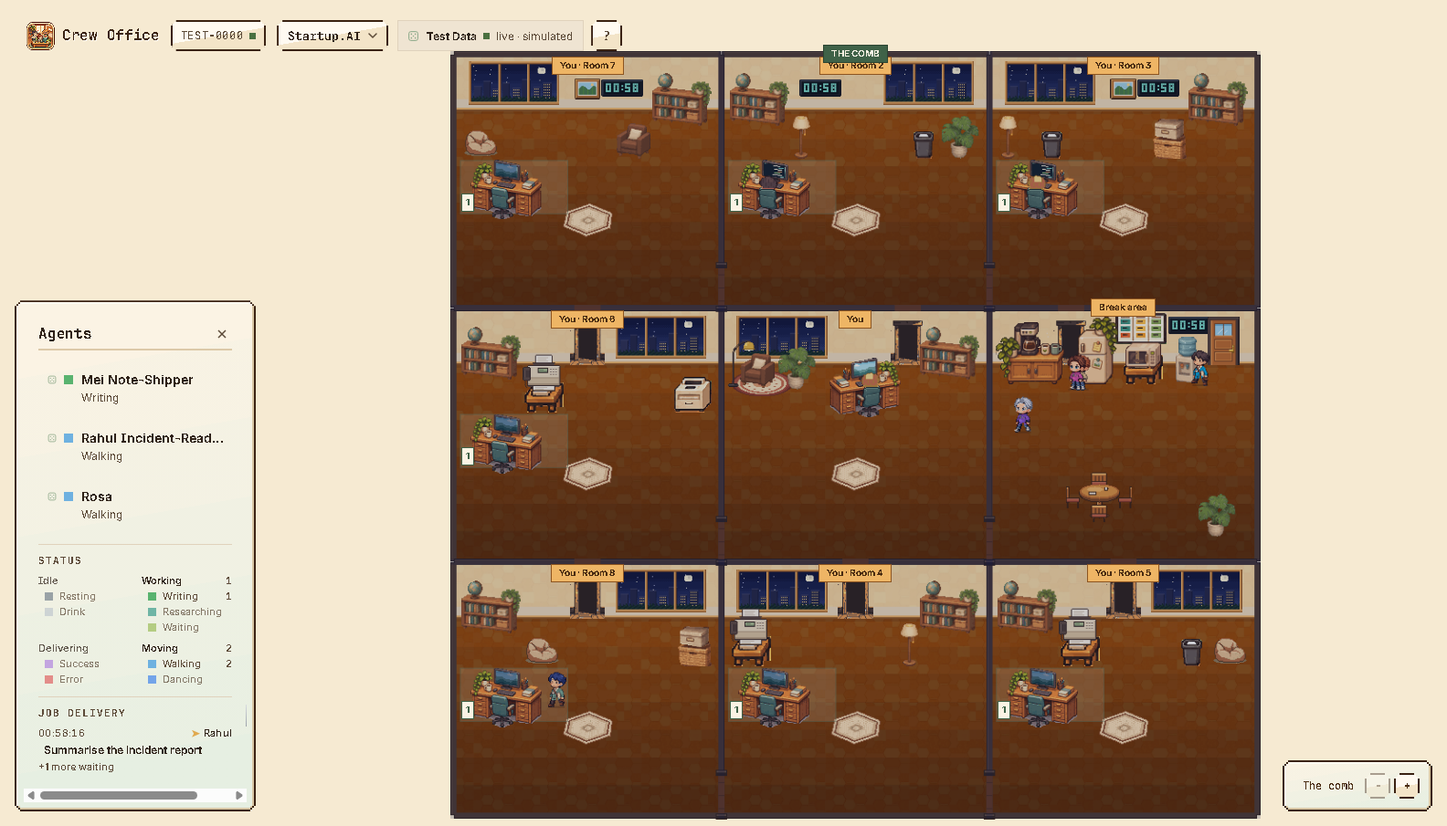
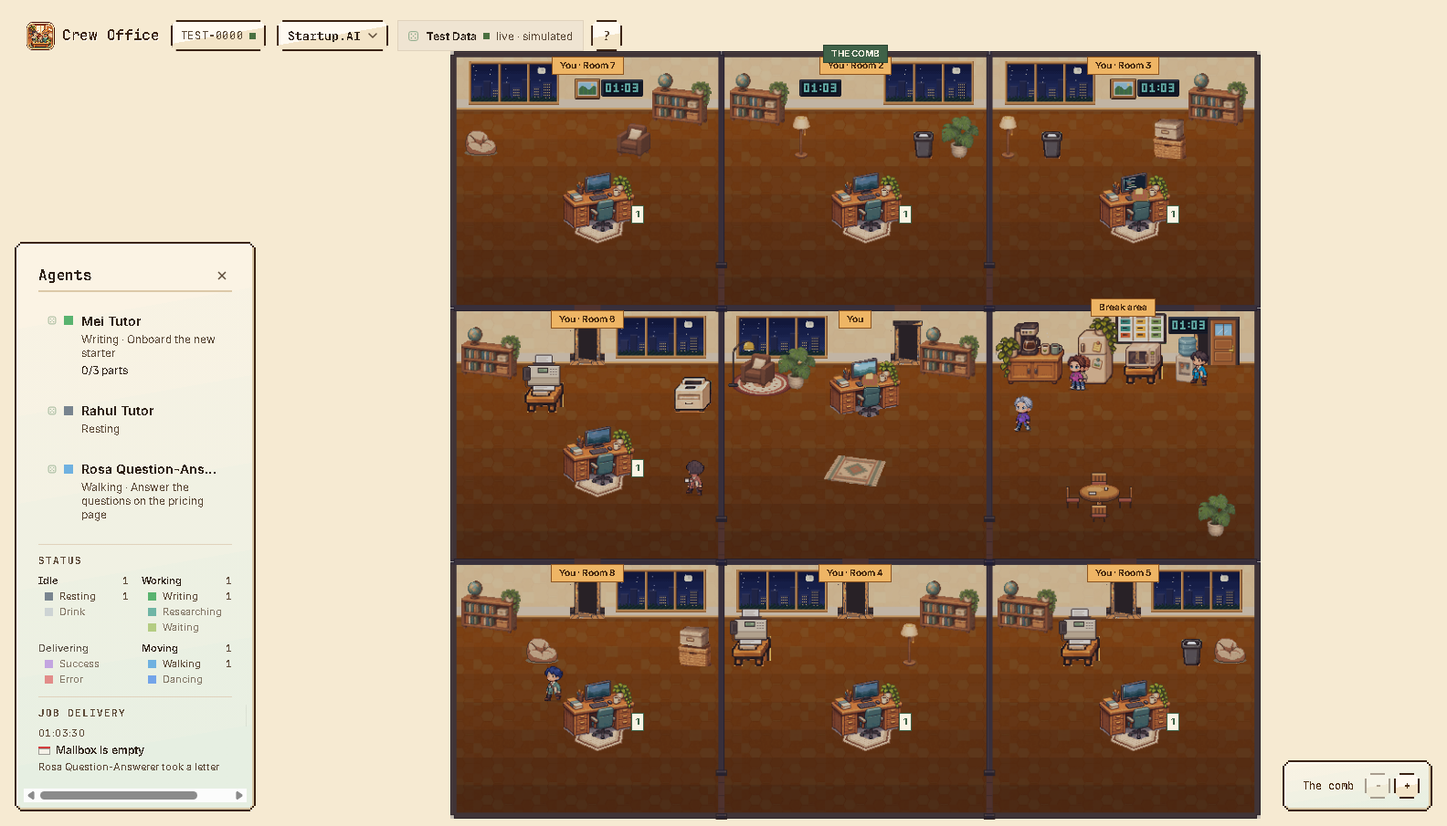
Comb: solo desk in the middle on the rug, no patch; walks checked
An agent alone in a comb room works at a centred desk on the hex rug,
without the pale workstation square. Comb rooms keep desks only for who
is in them, and a back doorway counts only if a walk from it reaches the
foot of the room (the player's room had one boxed in by spare desks).
New test walks every seat in, on a stroll, and to every break spot with
the real sprite sizes, for 1, 3 and 7 agents and a full room.

diff --git a/docs/site/developer/architecture.html b/docs/site/developer/architecture.html
@@ -169,7 +169,7 @@
 <p><strong>The office is drawn by <code>src/office2d/view.js</code></strong>, in 2D from one fixed angle, using the art in <code>assets/pixel-art/office/established/</code>, with no WebGL. A camera in that file zooms between one room and a whole floor, and <code>src/office2d/ambient.js</code> sends idle agents to a shared break area, which is only a picture and changes nothing about them. <code>src/office2d/allocation.js</code> gives each bot a workstation: four bots a room, three players a floor, ten bots per player per floor, and one standby desk at most. Agents keep their logic, including their walking in the 3D scene objects under <code>src/scene/</code>, but none of that is rendered, so workers are shown at their desks. The editor and first-person ride are off. The sections below describe the older picture where they mention a camera.</p>
 </blockquote>
 <blockquote>
-<p><strong>The comb layout</strong> is the same view with <code>?layout=comb</code> in the address (<code>combLayoutWanted</code> in <code>view.js</code>, or <code>createOffice2D(canvas, input, { comb: true })</code>). <code>src/office2d/comb.js</code> replaces <code>allocation.js</code> for it: <code>createCombAllocator</code> gives the player a room (number 1, with their desk) and every top-level agent a room of their own, in the order they arrived, with a bot whose <code>parentId</code> is present seated at the next desk in that room and a fifth person spilling into an annexe in the next cell. <code>combCells</code> packs rooms on a plain grid: the player's room and the break room sit side by side, and each next room takes the free cell sharing a wall with the most cells taken (ties to the nearest the middle), so the comb grows 2×2, 2×3, 3×3 and stays a solid block like an office floor. <code>placeComb</code> returns a plan with the same shape as <code>placeFloor</code>'s plus <code>comb</code>, <code>links</code> and <code>bounds</code>, and <code>combDoorsOf</code> in <code>floor-plan.js</code> puts a floor-level door in every shared side wall and a doorway in every shared back wall, wherever it is clear on both sides; walking there is the shortest way rather than the lanes. When somebody leaves, everybody after them moves one cell inwards, and <code>easeRooms</code> glides the drawn rooms to their new places. All of it is tested in <code>test/office2d-comb.test.js</code>. Its art is in <code>assets/pixel-art/office/comb/</code>, generated with PixelLab; see <a href="visual-assets.html">visual assets</a>.</p>
+<p><strong>The comb layout</strong> is the same view with <code>?layout=comb</code> in the address (<code>combLayoutWanted</code> in <code>view.js</code>, or <code>createOffice2D(canvas, input, { comb: true })</code>). <code>src/office2d/comb.js</code> replaces <code>allocation.js</code> for it: <code>createCombAllocator</code> gives the player a room (number 1, with their desk) and every top-level agent a room of their own, in the order they arrived, with a bot whose <code>parentId</code> is present seated at the next desk in that room and a fifth person spilling into an annexe in the next cell. <code>combCells</code> packs rooms on a plain grid: the player's room and the break room sit side by side, and each next room takes the free cell sharing a wall with the most cells taken (ties to the nearest the middle), so the comb grows 2×2, 2×3, 3×3 and stays a solid block like an office floor. <code>placeComb</code> returns a plan with the same shape as <code>placeFloor</code>'s plus <code>comb</code>, <code>links</code> and <code>bounds</code>, and <code>combDoorsOf</code> in <code>floor-plan.js</code> puts a floor-level door in every shared side wall and a doorway in every shared back wall, wherever it is clear on both sides; a doorway only counts where a walk from it reaches the foot of the room. Walking there is the shortest way rather than the lanes. A comb room keeps desks only for who is in it (<code>seatsIn</code>), and one with only its agent (<code>isSolo</code>) puts that desk in the middle on the hex rug, with no pale workstation patch. When somebody leaves, everybody after them moves one cell inwards, and <code>easeRooms</code> glides the drawn rooms to their new places. All of it is tested in <code>test/office2d-comb.test.js</code>. Its art is in <code>assets/pixel-art/office/comb/</code>, generated with PixelLab; see <a href="visual-assets.html">visual assets</a>.</p>
 </blockquote>
 <p>How a keystroke in a terminal becomes somebody walking across a room, and where the seams are.</p>
 <h2 id="the-pipeline" tabindex="-1">The pipeline</h2>

diff --git a/src/office2d/floor-plan.js b/src/office2d/floor-plan.js
@@ -72,6 +72,14 @@ const SMALL_PROPS = [null, 'bin', 'bin'];
 const COMB_PROPS = [{ sprite: 'beanbag' }, { sprite: 'whiteboard' }];
 const PICTURES = [null, 'picture-hills', 'picture-chart', 'picture-night'];
 const SEATS_IN_A_ROOM = 4;
+// Where the one desk of a room of the comb with only its agent in it stands: in the middle.
+export const SOLO_DESK_X = Math.round((INNER_W - DESK_W) / 2) + 13;
+export const SOLO_ROW_Y = 140;
+/** A room of the comb with nobody in it but its agent, whose desk is in the middle. */
+export const isSolo = (room) => Boolean(room.comb) && room.number !== 1 && room.rows.length <= 1;
+// The usual rooms keep a place for all four desks, taken or not. A room of the comb is laid out
+// for whoever is in it, as it is redrawn when somebody joins.
+const seatsIn = (room) => (room.comb ? (isSolo(room) ? 1 : room.rows.length) : SEATS_IN_A_ROOM);
 const CHAIR_X = 48; // where the middle of the chair is in the desk's sprite, which is drawn mirrored on the left
 const CHAIR_TOP = 13;
 const WANDER_LEGS = 6; // straight walks in a stroll, each ending at whatever is in the way
@@ -118,6 +126,20 @@ export function placeFloor(floor) {
 /** Where a workstation is in its room. Odd seats are on the right, and desks face the aisle. */
 export function stationAt(room, index) {
   const left = room.x + BORDER;
+  if (isSolo(room)) {
+    // An agent alone in a room of the comb works in the middle of it, on the rug.
+    const deskX = left + SOLO_DESK_X;
+    return {
+      right: true,
+      y: room.y + BORDER + SOLO_ROW_Y,
+      left,
+      rugX: deskX - 30,
+      badgeX: deskX + 85,
+      deskX,
+      workerX: deskX - 26,
+      nameX: deskX + 41,
+    };
+  }
   const right = index % 2 === 1;
   const y = room.y + BORDER + ROW_TOP + (index >> 1) * ROW_H;
   return {
@@ -203,7 +225,7 @@ function roomSolids(room, sizes, ownSeat) {
     solids.push(rect(left + PLAYER.x + 4, top + PLAYER.y + WORKER_H - 14, WORKER_W - 8, 14));
   }
   // Every seat counts, taken or not, so a colleague arriving mid-walk cannot end up in somebody's way.
-  for (let index = 0; index < SEATS_IN_A_ROOM; index++) {
+  for (let index = 0; index < seatsIn(room); index++) {
     const at = stationAt(room, index);
     solids.push(rect(at.deskX, at.y - 8, DESK_W, DESK_H));
     if (index !== ownSeat) solids.push(rect(at.workerX + 4, at.y + 6 + WORKER_H - 14, WORKER_W - 8, 14));
@@ -273,7 +295,10 @@ export function combDoorsOf(plan, sizes) {
   const free = (point, room) => {
     const top = room.y + BORDER;
     const floor = rect(room.x + BORDER + 9, top + WALL_H + 2, INNER_W - 18, INNER_H - WALL_H - 5);
-    return isClear(point, { walkable: [floor], solids: solidsOf(room) });
+    const map = { walkable: [floor], solids: solidsOf(room) };
+    // Clear is not enough: from the doorway there has to be a way to the walk along the foot of the room.
+    const foot = { x: room.x + BORDER + AISLE_X, y: top + FOOT_Y };
+    return isClear(point, map) && Boolean(findPath(point, foot, map));
   };
   const side = [];
   const back = [];
@@ -410,8 +435,9 @@ export function strollFrom(seat, sizes, random) {
   if (!own) return null;
   const map = { walkable: [own], solids: whole.solids };
   const start = seatFeet(seat.room, seat.index);
+  // Out to the aisle first, or straight off from the desk if the desk is where the aisle would be.
   const aisle = { x: left + AISLE_X, y: start.y };
-  const out = findPath(start, aisle, map);
+  const out = isClear(aisle, map) ? findPath(start, aisle, map) : [start];
   if (!out) return null;
   const way = [...out];
   let heading = Math.floor(random() * HEADINGS.length);

diff --git a/src/office2d/view.js b/src/office2d/view.js
@@ -13,8 +13,8 @@ import { createAllocator } from './allocation.js';
 import { createCombAllocator, easeRooms, placeComb } from './comb.js';
 import { createAmbient } from './ambient.js';
 import {
-  AISLE_X, BORDER, BREAK_DOOR_X, COZY_RUG, DESK_H, BREAK_FURNITURE, BREAK_SPOTS, BREAK_W, FOOT_Y, INNER_H, PLAYER, ROOM_H, ROOM_W, ROW_H, ROW_TOP,
-  STEP_X, WALL_H, WORKER_H, WORKER_W, combDoorsOf, decorOf, hashOf, placeFloor, routeTo, seatFeet, arrivalRoute, sittingAt, stationAt, strollFrom,
+  AISLE_X, BORDER, BREAK_DOOR_X, COZY_RUG, DESK_H, DESK_W, BREAK_FURNITURE, BREAK_SPOTS, BREAK_W, FOOT_Y, INNER_H, PLAYER, ROOM_H, ROOM_W, ROW_H, ROW_TOP,
+  STEP_X, WALL_H, WORKER_H, WORKER_W, SOLO_DESK_X, SOLO_ROW_Y, combDoorsOf, decorOf, isSolo, hashOf, placeFloor, routeTo, seatFeet, arrivalRoute, sittingAt, stationAt, strollFrom,
 } from './floor-plan.js';
 import { restingPose, workingPose } from './desk-poses.js';
 import { clockText, hostMinutes, phaseOf } from './sky.js';
@@ -538,7 +538,11 @@ export function createOffice2D(canvas, input, { comb = combLayoutWanted() } = {}
     if (clear(left + recipe.windowX, 104)) drawWindow(left + recipe.windowX, top + 5);
     if (clear(left + recipe.clockX, 48)) drawClock(left + recipe.clockX, top + 25); // below the plaque with the room's name
     if (recipe.picture && room.down === 0 && room.number !== 1 && clear(left + AISLE_X - 15, 30)) put(recipe.picture, left + AISLE_X - 15, top + 24);
-    if (recipe.rug) put(room.comb && sprites['hex-rug'] ? 'hex-rug' : 'rug', left + AISLE_X - 36, top + ROW_TOP + 40);
+    if (isSolo(room) && sprites['hex-rug']) {
+      // The comb's rug lies under the desk in the middle of the room.
+      const rug = sprites['hex-rug'];
+      put('hex-rug', left + SOLO_DESK_X + DESK_W / 2 - rug.width / 2, top + SOLO_ROW_Y + DESK_H - rug.height + 6);
+    } else if (recipe.rug) put('rug', left + AISLE_X - 36, top + ROW_TOP + 40);
     for (const x of doorways) putDoorway(x, top);
     // The cozy corner's rug, under its lamp, armchair and plant.
     if (recipe.cozy) put(COZY_RUG.sprite, left + COZY_RUG.x, top + COZY_RUG.y);
@@ -585,11 +589,14 @@ export function createOffice2D(canvas, input, { comb = combLayoutWanted() } = {}
   function drawStation(room, row, index, bots, layer) {
     const at = stationAt(room, index);
     const { y } = at;
-    context.fillStyle = 'rgba(247, 232, 196, 0.2)';
-    context.fillRect(at.rugX, y - 8, 124, ROW_H - 4);
-    context.strokeStyle = 'rgba(63, 98, 72, 0.4)';
-    context.lineWidth = 1;
-    context.strokeRect(at.rugX + 0.5, y - 7.5, 123, ROW_H - 5);
+    // The pale patch marks each workstation in a shared room; a room of the comb is one agent's own.
+    if (!room.comb) {
+      context.fillStyle = 'rgba(247, 232, 196, 0.2)';
+      context.fillRect(at.rugX, y - 8, 124, ROW_H - 4);
+      context.strokeStyle = 'rgba(63, 98, 72, 0.4)';
+      context.lineWidth = 1;
+      context.strokeRect(at.rugX + 0.5, y - 7.5, 123, ROW_H - 5);
+    }
 
     const desk = at.right ? put : putFlipped;
     const deskY = y - 8;

diff --git a/docs/site/user/watching.html b/docs/site/user/watching.html
@@ -145,7 +145,7 @@
 <p><strong>The office is now 2D, seen from one fixed angle.</strong> Scroll, use the <strong>+</strong> and <strong>−</strong> buttons or keys, or click a room to zoom between a room and the whole floor, and drag to look around. The camera doesn't turn. Idle agents sometimes stroll about their room or go to the break area, which is only for show and doesn't affect their work. On the way to the break area they keep to the aisle and the walkway along the foot of each room, and they walk around desks and furniture rather than through them. The windows and clock follow the time and weather where the office is hosted. In a hosted office, click a bookshelf to share files with the other players and their agents. You choose your character when you first enter, and click it to change it. First-person view, the scene panel, photos and furniture editing described here are not available in it.</p>
 </blockquote>
 <blockquote>
-<p><strong>A room for every agent.</strong> Add <code>?layout=comb</code> to the end of the office's address to lay it out as a comb instead: your own room in the middle, the break area beside it, and a room of its own for every agent who joins, the rooms packed together wall to wall in one block, like a real office floor. The comb grows a room when an agent arrives and closes up when one leaves, with the rooms gliding into their new places. A subagent, when one is shown, sits at a desk in the room of the agent who started it. Leave the address as it was for the usual layout of four desks to a room.</p>
+<p><strong>A room for every agent.</strong> Add <code>?layout=comb</code> to the end of the office's address to lay it out as a comb instead: your own room in the middle, the break area beside it, and a room of its own for every agent who joins, the rooms packed together wall to wall in one block, like a real office floor. The comb grows a room when an agent arrives and closes up when one leaves, with the rooms gliding into their new places. An agent alone in its room works at a desk in the middle of it, on a rug; a subagent, when one is shown, sits at a desk in the room of the agent who started it. Leave the address as it was for the usual layout of four desks to a room.</p>
 </blockquote>
 <img src="../images/comb/comb-7.png" width="1000" alt="The office laid out as a comb with seven agents: the player's room in the middle, the break area to its right, and seven rooms with one desk in use each packed around them in a three-by-three block, joined by doors.">
 <p><em>For anyone looking at the room. Two minutes, no code.</em></p>

diff --git a/test/office2d-comb.test.js b/test/office2d-comb.test.js
@@ -119,3 +119,34 @@ test('rooms glide to where they belong, and new rooms appear in place', () => {
   easeRooms(shown, [], 0.016);
   assert.equal(shown.size, 0);
 });
+
+test('with the real sprites, everyone can walk in, stroll, and reach every break spot', async () => {
+  const { readFileSync } = await import('node:fs');
+  const { routeTo, arrivalRoute, strollFrom, BREAK_SPOTS, stationAt, isSolo } = await import('../src/office2d/floor-plan.js');
+  const sizes = {
+    ...JSON.parse(readFileSync(new URL('../assets/pixel-art/office/established/sprites.json', import.meta.url))),
+    ...JSON.parse(readFileSync(new URL('../assets/pixel-art/office/comb/sprites.json', import.meta.url))),
+  };
+  let seed = 1;
+  const random = () => ((seed = (seed * 16807) % 2147483647) / 2147483647);
+  for (const n of [1, 3, 7]) {
+    const lead = Array.from({ length: n }, (_, i) => ({ id: `b${i}`, ownerId: 'a' }));
+    // The last agent has three subagents, so a full room of four is walked as well.
+    const subs = [1, 2, 3].map((i) => ({ id: `s${i}`, ownerId: 'a', parentId: `b${n - 1}` }));
+    const rooms = createCombAllocator().sync([...lead, ...subs], [{ id: 'a' }]).rooms.map((r) => ({ ...r, comb: true }));
+    const plan = placeComb(rooms);
+    for (const room of plan.rooms) {
+      room.rows.forEach((row, index) => {
+        const seat = { room, plan, index };
+        for (const spot of BREAK_SPOTS) assert.ok(routeTo(seat, spot, sizes), `${n}: ${row.botId} cannot get to the ${spot.action}`);
+        assert.ok(arrivalRoute(seat, sizes), `${n}: ${row.botId} cannot walk in`);
+        assert.ok([1, 2, 3, 4, 5].some(() => strollFrom(seat, sizes, random)), `${n}: ${row.botId} cannot stroll`);
+      });
+      if (isSolo(room)) {
+        const at = stationAt(room, 0);
+        const middle = room.x + 7 + 150;
+        assert.ok(Math.abs(at.deskX + 41 - middle) <= 14, `${room.key}: the desk is not in the middle`);
+      }
+    }
+  }
+});

diff --git a/docs/developer/architecture.md b/docs/developer/architecture.md
@@ -2,7 +2,7 @@
 
 > **The office is drawn by `src/office2d/view.js`**, in 2D from one fixed angle, using the art in `assets/pixel-art/office/established/`, with no WebGL. A camera in that file zooms between one room and a whole floor, and `src/office2d/ambient.js` sends idle agents to a shared break area, which is only a picture and changes nothing about them. `src/office2d/allocation.js` gives each bot a workstation: four bots a room, three players a floor, ten bots per player per floor, and one standby desk at most. Agents keep their logic, including their walking in the 3D scene objects under `src/scene/`, but none of that is rendered, so workers are shown at their desks. The editor and first-person ride are off. The sections below describe the older picture where they mention a camera.
 
-> **The comb layout** is the same view with `?layout=comb` in the address (`combLayoutWanted` in `view.js`, or `createOffice2D(canvas, input, { comb: true })`). `src/office2d/comb.js` replaces `allocation.js` for it: `createCombAllocator` gives the player a room (number 1, with their desk) and every top-level agent a room of their own, in the order they arrived, with a bot whose `parentId` is present seated at the next desk in that room and a fifth person spilling into an annexe in the next cell. `combCells` packs rooms on a plain grid: the player's room and the break room sit side by side, and each next room takes the free cell sharing a wall with the most cells taken (ties to the nearest the middle), so the comb grows 2×2, 2×3, 3×3 and stays a solid block like an office floor. `placeComb` returns a plan with the same shape as `placeFloor`'s plus `comb`, `links` and `bounds`, and `combDoorsOf` in `floor-plan.js` puts a floor-level door in every shared side wall and a doorway in every shared back wall, wherever it is clear on both sides; walking there is the shortest way rather than the lanes. When somebody leaves, everybody after them moves one cell inwards, and `easeRooms` glides the drawn rooms to their new places. All of it is tested in `test/office2d-comb.test.js`. Its art is in `assets/pixel-art/office/comb/`, generated with PixelLab; see [visual assets](visual-assets.md).
+> **The comb layout** is the same view with `?layout=comb` in the address (`combLayoutWanted` in `view.js`, or `createOffice2D(canvas, input, { comb: true })`). `src/office2d/comb.js` replaces `allocation.js` for it: `createCombAllocator` gives the player a room (number 1, with their desk) and every top-level agent a room of their own, in the order they arrived, with a bot whose `parentId` is present seated at the next desk in that room and a fifth person spilling into an annexe in the next cell. `combCells` packs rooms on a plain grid: the player's room and the break room sit side by side, and each next room takes the free cell sharing a wall with the most cells taken (ties to the nearest the middle), so the comb grows 2×2, 2×3, 3×3 and stays a solid block like an office floor. `placeComb` returns a plan with the same shape as `placeFloor`'s plus `comb`, `links` and `bounds`, and `combDoorsOf` in `floor-plan.js` puts a floor-level door in every shared side wall and a doorway in every shared back wall, wherever it is clear on both sides; a doorway only counts where a walk from it reaches the foot of the room. Walking there is the shortest way rather than the lanes. A comb room keeps desks only for who is in it (`seatsIn`), and one with only its agent (`isSolo`) puts that desk in the middle on the hex rug, with no pale workstation patch. When somebody leaves, everybody after them moves one cell inwards, and `easeRooms` glides the drawn rooms to their new places. All of it is tested in `test/office2d-comb.test.js`. Its art is in `assets/pixel-art/office/comb/`, generated with PixelLab; see [visual assets](visual-assets.md).
 
 How a keystroke in a terminal becomes somebody walking across a room, and where the seams are.
 

diff --git a/docs/site/developer/architecture.md b/docs/site/developer/architecture.md
@@ -2,7 +2,7 @@
 
 > **The office is drawn by `src/office2d/view.js`**, in 2D from one fixed angle, using the art in `assets/pixel-art/office/established/`, with no WebGL. A camera in that file zooms between one room and a whole floor, and `src/office2d/ambient.js` sends idle agents to a shared break area, which is only a picture and changes nothing about them. `src/office2d/allocation.js` gives each bot a workstation: four bots a room, three players a floor, ten bots per player per floor, and one standby desk at most. Agents keep their logic, including their walking in the 3D scene objects under `src/scene/`, but none of that is rendered, so workers are shown at their desks. The editor and first-person ride are off. The sections below describe the older picture where they mention a camera.
 
-> **The comb layout** is the same view with `?layout=comb` in the address (`combLayoutWanted` in `view.js`, or `createOffice2D(canvas, input, { comb: true })`). `src/office2d/comb.js` replaces `allocation.js` for it: `createCombAllocator` gives the player a room (number 1, with their desk) and every top-level agent a room of their own, in the order they arrived, with a bot whose `parentId` is present seated at the next desk in that room and a fifth person spilling into an annexe in the next cell. `combCells` packs rooms on a plain grid: the player's room and the break room sit side by side, and each next room takes the free cell sharing a wall with the most cells taken (ties to the nearest the middle), so the comb grows 2×2, 2×3, 3×3 and stays a solid block like an office floor. `placeComb` returns a plan with the same shape as `placeFloor`'s plus `comb`, `links` and `bounds`, and `combDoorsOf` in `floor-plan.js` puts a floor-level door in every shared side wall and a doorway in every shared back wall, wherever it is clear on both sides; walking there is the shortest way rather than the lanes. When somebody leaves, everybody after them moves one cell inwards, and `easeRooms` glides the drawn rooms to their new places. All of it is tested in `test/office2d-comb.test.js`. Its art is in `assets/pixel-art/office/comb/`, generated with PixelLab; see [visual assets](visual-assets.md).
+> **The comb layout** is the same view with `?layout=comb` in the address (`combLayoutWanted` in `view.js`, or `createOffice2D(canvas, input, { comb: true })`). `src/office2d/comb.js` replaces `allocation.js` for it: `createCombAllocator` gives the player a room (number 1, with their desk) and every top-level agent a room of their own, in the order they arrived, with a bot whose `parentId` is present seated at the next desk in that room and a fifth person spilling into an annexe in the next cell. `combCells` packs rooms on a plain grid: the player's room and the break room sit side by side, and each next room takes the free cell sharing a wall with the most cells taken (ties to the nearest the middle), so the comb grows 2×2, 2×3, 3×3 and stays a solid block like an office floor. `placeComb` returns a plan with the same shape as `placeFloor`'s plus `comb`, `links` and `bounds`, and `combDoorsOf` in `floor-plan.js` puts a floor-level door in every shared side wall and a doorway in every shared back wall, wherever it is clear on both sides; a doorway only counts where a walk from it reaches the foot of the room. Walking there is the shortest way rather than the lanes. A comb room keeps desks only for who is in it (`seatsIn`), and one with only its agent (`isSolo`) puts that desk in the middle on the hex rug, with no pale workstation patch. When somebody leaves, everybody after them moves one cell inwards, and `easeRooms` glides the drawn rooms to their new places. All of it is tested in `test/office2d-comb.test.js`. Its art is in `assets/pixel-art/office/comb/`, generated with PixelLab; see [visual assets](visual-assets.md).
 
 How a keystroke in a terminal becomes somebody walking across a room, and where the seams are.
 

diff --git a/docs/site/user/watching.md b/docs/site/user/watching.md
@@ -2,7 +2,7 @@
 
 > **The office is now 2D, seen from one fixed angle.** Scroll, use the **+** and **−** buttons or keys, or click a room to zoom between a room and the whole floor, and drag to look around. The camera doesn't turn. Idle agents sometimes stroll about their room or go to the break area, which is only for show and doesn't affect their work. On the way to the break area they keep to the aisle and the walkway along the foot of each room, and they walk around desks and furniture rather than through them. The windows and clock follow the time and weather where the office is hosted. In a hosted office, click a bookshelf to share files with the other players and their agents. You choose your character when you first enter, and click it to change it. First-person view, the scene panel, photos and furniture editing described here are not available in it.
 
-> **A room for every agent.** Add `?layout=comb` to the end of the office's address to lay it out as a comb instead: your own room in the middle, the break area beside it, and a room of its own for every agent who joins, the rooms packed together wall to wall in one block, like a real office floor. The comb grows a room when an agent arrives and closes up when one leaves, with the rooms gliding into their new places. A subagent, when one is shown, sits at a desk in the room of the agent who started it. Leave the address as it was for the usual layout of four desks to a room.
+> **A room for every agent.** Add `?layout=comb` to the end of the office's address to lay it out as a comb instead: your own room in the middle, the break area beside it, and a room of its own for every agent who joins, the rooms packed together wall to wall in one block, like a real office floor. The comb grows a room when an agent arrives and closes up when one leaves, with the rooms gliding into their new places. An agent alone in its room works at a desk in the middle of it, on a rug; a subagent, when one is shown, sits at a desk in the room of the agent who started it. Leave the address as it was for the usual layout of four desks to a room.
 
 <img src="../images/comb/comb-7.png" width="1000" alt="The office laid out as a comb with seven agents: the player's room in the middle, the break area to its right, and seven rooms with one desk in use each packed around them in a three-by-three block, joined by doors.">
 

diff --git a/docs/user/watching.md b/docs/user/watching.md
@@ -2,7 +2,7 @@
 
 > **The office is now 2D, seen from one fixed angle.** Scroll, use the **+** and **−** buttons or keys, or click a room to zoom between a room and the whole floor, and drag to look around. The camera doesn't turn. Idle agents sometimes stroll about their room or go to the break area, which is only for show and doesn't affect their work. On the way to the break area they keep to the aisle and the walkway along the foot of each room, and they walk around desks and furniture rather than through them. The windows and clock follow the time and weather where the office is hosted. In a hosted office, click a bookshelf to share files with the other players and their agents. You choose your character when you first enter, and click it to change it. First-person view, the scene panel, photos and furniture editing described here are not available in it.
 
-> **A room for every agent.** Add `?layout=comb` to the end of the office's address to lay it out as a comb instead: your own room in the middle, the break area beside it, and a room of its own for every agent who joins, the rooms packed together wall to wall in one block, like a real office floor. The comb grows a room when an agent arrives and closes up when one leaves, with the rooms gliding into their new places. A subagent, when one is shown, sits at a desk in the room of the agent who started it. Leave the address as it was for the usual layout of four desks to a room.
+> **A room for every agent.** Add `?layout=comb` to the end of the office's address to lay it out as a comb instead: your own room in the middle, the break area beside it, and a room of its own for every agent who joins, the rooms packed together wall to wall in one block, like a real office floor. The comb grows a room when an agent arrives and closes up when one leaves, with the rooms gliding into their new places. An agent alone in its room works at a desk in the middle of it, on a rug; a subagent, when one is shown, sits at a desk in the room of the agent who started it. Leave the address as it was for the usual layout of four desks to a room.
 
 <img src="../images/comb/comb-7.png" width="1000" alt="The office laid out as a comb with seven agents: the player's room in the middle, the break area to its right, and seven rooms with one desk in use each packed around them in a three-by-three block, joined by doors.">
 
